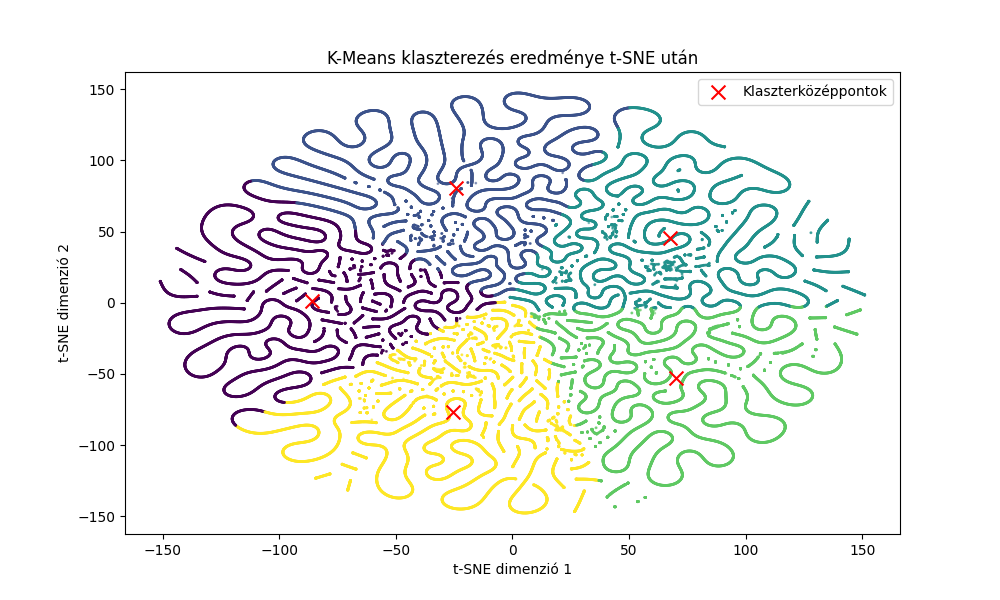
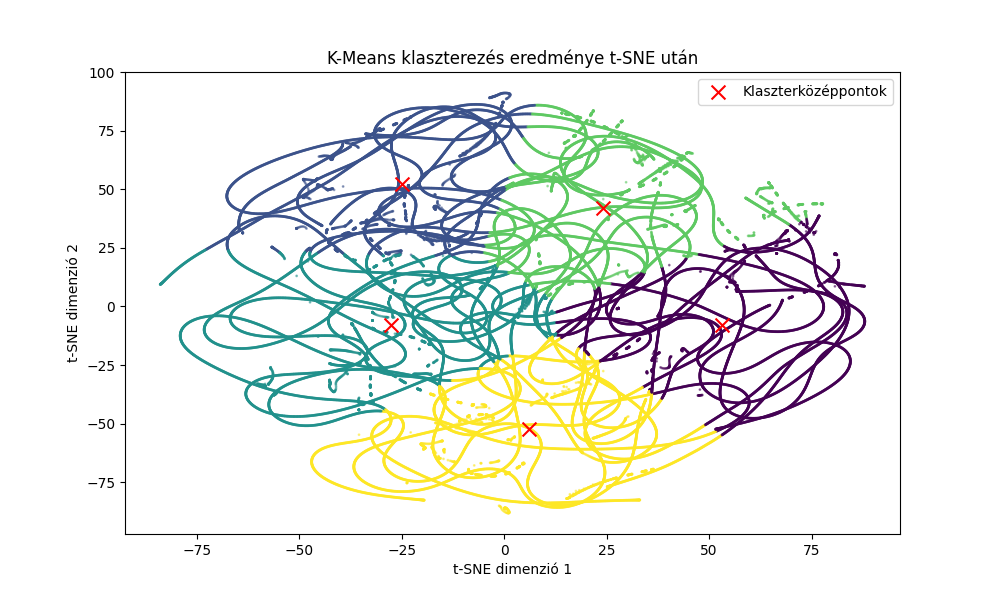
pca vagy tsne

diff --git a/manoeuvres_removing.py b/manoeuvres_removing.py
@@ -4,9 +4,10 @@ import pandas as pd
 import matplotlib.pyplot as plt
 from sklearn.manifold import TSNE
 from sklearn.cluster import KMeans
+from sklearn.decomposition import PCA
 
 # Mappa, ahol az adatok találhatók
-data_dir = "Bottleneck_data/single_manoeuvres/"
+data_dir = "Reduced_bottleneck_data/single_manoeuvres/"
 
 # Adatok beolvasása
 file_paths = [
@@ -27,9 +28,18 @@ data_dict = {os.path.basename(path): np.load(path) for path in file_paths}
 # Összes adat összefűzése
 all_data = np.vstack(list(data_dict.values()))
 
-# t-SNE alkalmazása 2D-re csökkentéshez
-tsne = TSNE(n_components=2, perplexity=30, random_state=42, n_iter=1000)
-reduced_data = tsne.fit_transform(all_data)
+reduced_data = all_data
+
+# # t-SNE alkalmazása 2D-re csökkentéshez
+# tsne = TSNE(n_components=2, perplexity=30, random_state=42, n_iter=1000)
+# reduced_data = tsne.fit_transform(all_data)
+
+# # PCA alkalmazása 2D-re csökkentéshez
+# pca = PCA(n_components=2)
+# reduced_data = pca.fit_transform(all_data)
+
+# # PCA variancia arányok kiírása
+# print("PCA magyarázott variancia arányok:", pca.explained_variance_ratio_)
 
 # t-SNE eredmény vizualizálása
 plt.figure(figsize=(10, 6))

diff --git a/distance_removing.py b/distance_removing.py
@@ -89,7 +89,7 @@ class RedundancyFilter:
         return redundant_pairs
 
 # Mappa, ahol az adatok találhatók
-data_dir = "Bottleneck_data/single_manoeuvres/"
+data_dir = "Reduced_bottleneck_data/single_manoeuvres/"
 
 # Adatok beolvasása
 file_paths = [
